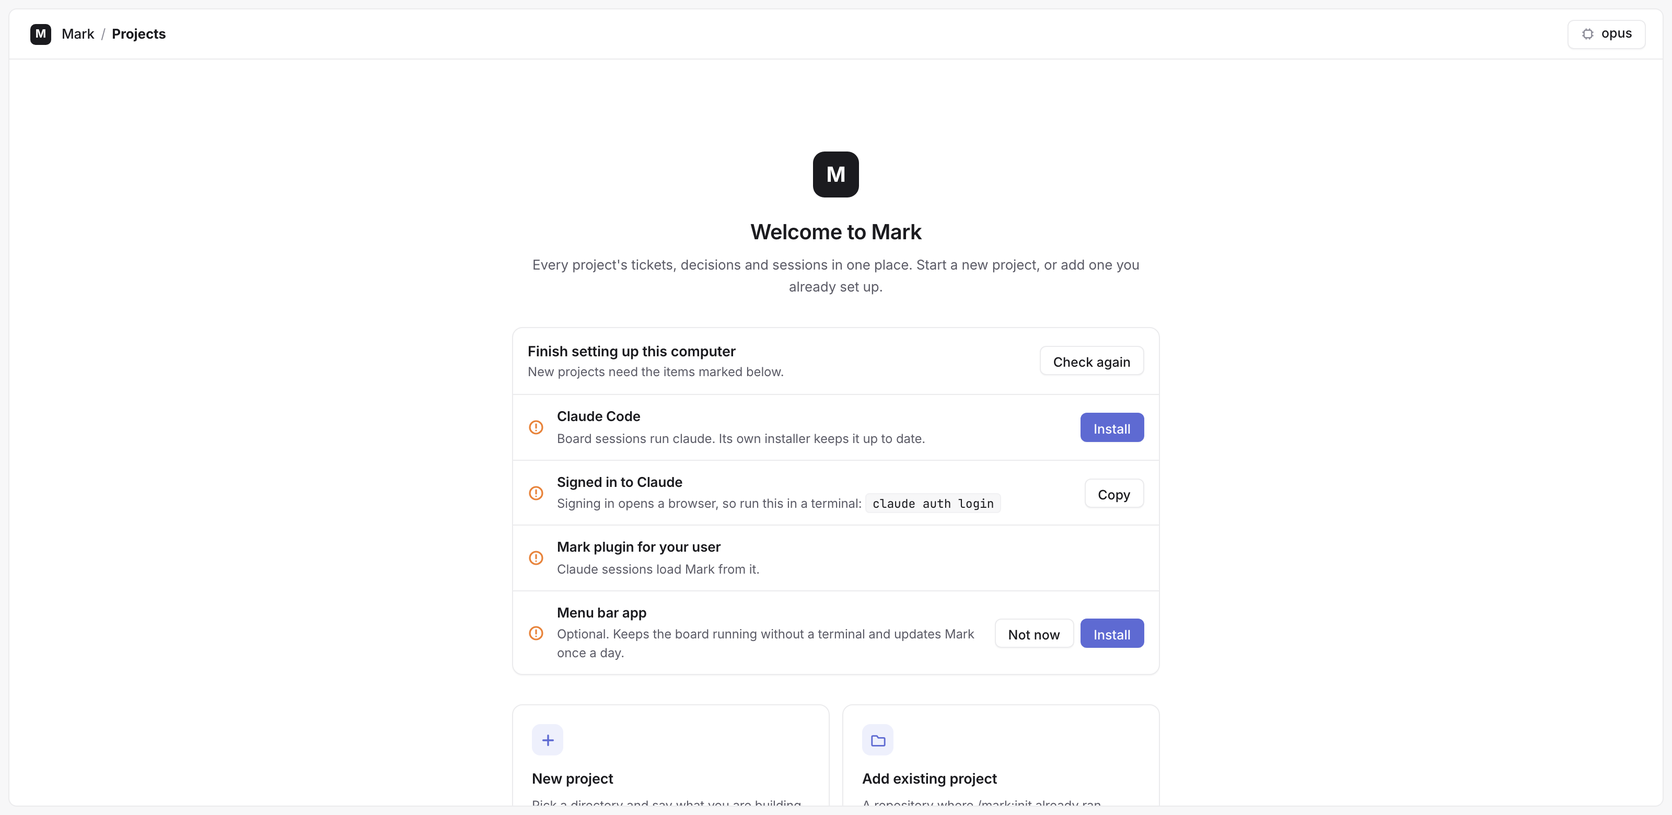
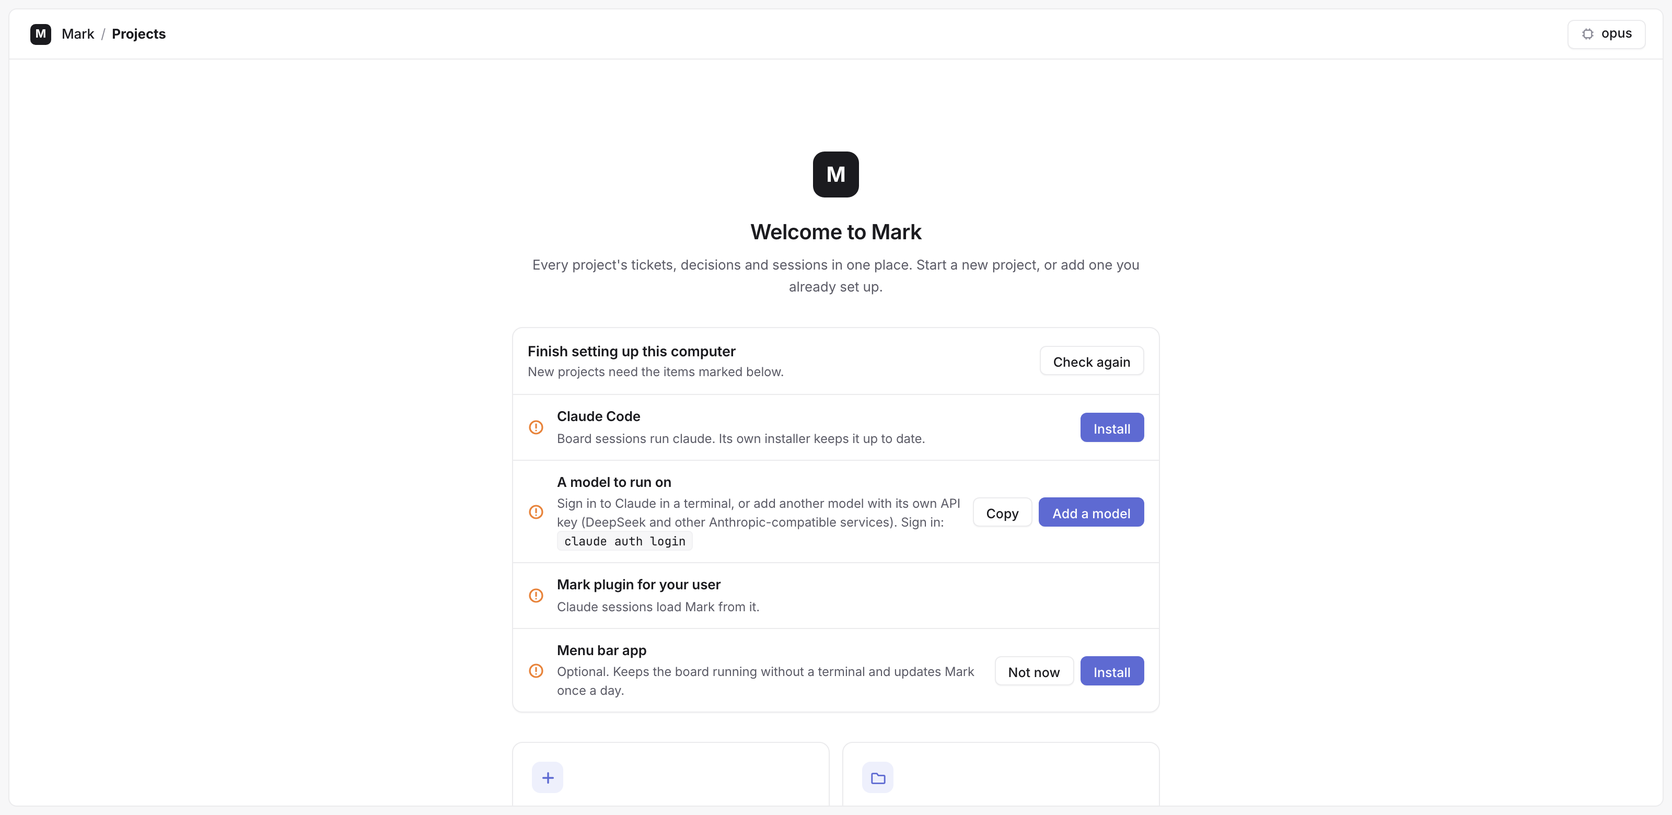
Guided quickstart, a model instead of a Claude login, uninstall.sh (v0.62.0)
- install.sh waits for the menu bar app's board and opens it, then says what
  to do there (finish the setup, New project, Add existing project).
- Setup check "A model to run on": passes when signed in to Claude or when
  the active model profile is a custom endpoint; "Add a model" opens the
  model menu. Signing in to Claude is no longer required.
- uninstall.sh: quits Mark, removes the app, its login item, the launcher
  (only ours) and the plugin; keeps Claude Code, projects and ~/.mark
  unless --purge.
- README: Quickstart as steps (install, finish setup on the board, add a
  project, start work, come back later), other install ways, uninstall;
  screenshots retaken.

diff --git a/plugins/mark/lib/mark/board.html b/plugins/mark/lib/mark/board.html
@@ -502,7 +502,7 @@ a.btn{text-decoration:none;color:inherit;display:inline-flex;align-items:center}
 <script>
 "use strict";
 const I18N={
- en:{dep_python:"Python 3.11 or newer",depH_python:"Mark's hooks run python3. Install it, for example:",dep_git:"git",depH_git:"The Xcode command line tools provide git.",dep_claude:"Claude Code",depH_claude:"Board sessions run claude. Its own installer keeps it up to date.",dep_login:"Signed in to Claude",depH_login:"Signing in opens a browser, so run this in a terminal:",dep_plugin:"Mark plugin for your user",depH_plugin:"Claude sessions load Mark from it.",dep_app:"Menu bar app",depH_app:"Keeps the board running without a terminal and updates Mark once a day.",depT:"Finish setting up this computer",depBlock:"New projects need the items marked below.",depOpt:"Optional. ",depFix:"Install",depRunning:"Installing…",depRecheck:"Check again",depHide:"Not now",depCopy:"Copy",depRun:"Running:",depFail:"Failed (exit {c}):",depDone:"Done:",depNeed:"Finish the setup at the top of the page first.",depAppAsk:"The menu bar app takes over the board: this page reconnects, then use Open in its menu to sign in again. Install it?",copiedCmd:"Command copied","deps.busy":"Another install is running; wait for it to finish.",newProj:"New project",wHint:"Claude runs /mark:init in this directory: it proposes how to set the project up, you confirm or correct it in the chat.",wDirL:"Directory (full path; created if missing)",wTextL:"What are you building, and on what stack?",wCreate:"Start",wSetting:"Setting up",wOpen:"Open the board",wDiscard:"Discard",
+ en:{dep_python:"Python 3.11 or newer",depH_python:"Mark's hooks run python3. Install it, for example:",dep_git:"git",depH_git:"The Xcode command line tools provide git.",dep_claude:"Claude Code",depH_claude:"Board sessions run claude. Its own installer keeps it up to date.",dep_model:"A model to run on",depH_model:"Sign in to Claude in a terminal, or add another model with its own API key (DeepSeek and other Anthropic-compatible services). Sign in:",depAddModel:"Add a model",dep_plugin:"Mark plugin for your user",depH_plugin:"Claude sessions load Mark from it.",dep_app:"Menu bar app",depH_app:"Keeps the board running without a terminal and updates Mark once a day.",depT:"Finish setting up this computer",depBlock:"New projects need the items marked below.",depOpt:"Optional. ",depFix:"Install",depRunning:"Installing…",depRecheck:"Check again",depHide:"Not now",depCopy:"Copy",depRun:"Running:",depFail:"Failed (exit {c}):",depDone:"Done:",depNeed:"Finish the setup at the top of the page first.",depAppAsk:"The menu bar app takes over the board: this page reconnects, then use Open in its menu to sign in again. Install it?",copiedCmd:"Command copied","deps.busy":"Another install is running; wait for it to finish.",newProj:"New project",wHint:"Claude runs /mark:init in this directory: it proposes how to set the project up, you confirm or correct it in the chat.",wDirL:"Directory (full path; created if missing)",wTextL:"What are you building, and on what stack?",wCreate:"Start",wSetting:"Setting up",wOpen:"Open the board",wDiscard:"Discard",
   "home.isMark":"Already a Mark project: add it on the home page instead.","home.noParent":"The parent directory does not exist.","home.notDir":"That path is a file, not a directory.",
   projects:"Projects",allProjects:"All projects",addProj:"Add existing project",add:"Add project",remove:"Remove from list",pRunning:"A session is running",
   addHint:"A repository where Mark is already set up (it has .mark/config.toml). Any directory inside it works too.",aDirL:"Project directory (full path)",hTip:"Running this in a Mark project also adds it here:",
@@ -536,7 +536,7 @@ const I18N={
   keySaved:"Saved; leave empty to keep it",save:"Save",saved:"Model: {m}. New sessions use it.",
   addProfile:"Add a model",profName:"Name (optional, shown in the list)",cancel:"Cancel",edit:"Edit",del:"Delete",delAsk:"Delete the model \"{m}\"?",
   "chat.busy":"Claude is already working on this ticket; wait for its reply.","chat.no-claude":"`claude` was not found, so nobody can reply. Continue in a terminal."},
- "zh-CN":{dep_python:"Python 3.11 或更新版本",depH_python:"Mark 的 hooks 用 python3 运行。安装方式举例：",dep_git:"git",depH_git:"git 由 Xcode 命令行工具提供。",dep_claude:"Claude Code",depH_claude:"看板里的会话要运行 claude。用它的官方安装器安装，之后会自动更新。",dep_login:"已登录 Claude",depH_login:"登录要打开浏览器，请在终端里运行：",dep_plugin:"用户级 Mark 插件",depH_plugin:"Claude 会话从这里加载 Mark。",dep_app:"菜单栏应用",depH_app:"不开终端也能让看板一直运行，并每天更新一次 Mark。",depT:"这台电脑还差几步",depBlock:"新建项目需要先完成标记的几项。",depOpt:"可选。",depFix:"安装",depRunning:"安装中…",depRecheck:"重新检查",depHide:"暂不",depCopy:"复制",depRun:"正在运行：",depFail:"失败（退出码 {c}）：",depDone:"已完成：",depNeed:"请先完成页面顶部的环境配置。",depAppAsk:"菜单栏应用会接管看板：本页会自动重连，之后点它菜单里的 Open 重新登录。现在安装？",copiedCmd:"已复制命令","deps.busy":"另一个安装正在进行，请等它完成。",newProj:"新建项目",wHint:"Claude 会在这个目录里运行 /mark:init：先提出项目的配置方案，你在对话里确认或修改。",wDirL:"目录（完整路径，不存在会自动创建）",wTextL:"你要做什么？用什么技术栈？",wCreate:"开始",wSetting:"配置中",wOpen:"打开看板",wDiscard:"丢弃",
+ "zh-CN":{dep_python:"Python 3.11 或更新版本",depH_python:"Mark 的 hooks 用 python3 运行。安装方式举例：",dep_git:"git",depH_git:"git 由 Xcode 命令行工具提供。",dep_claude:"Claude Code",depH_claude:"看板里的会话要运行 claude。用它的官方安装器安装，之后会自动更新。",dep_model:"可用的模型",depH_model:"在终端里登录 Claude，或添加一个自带 API key 的其他模型（DeepSeek 等兼容 Anthropic 接口的服务）。登录命令：",depAddModel:"添加模型",dep_plugin:"用户级 Mark 插件",depH_plugin:"Claude 会话从这里加载 Mark。",dep_app:"菜单栏应用",depH_app:"不开终端也能让看板一直运行，并每天更新一次 Mark。",depT:"这台电脑还差几步",depBlock:"新建项目需要先完成标记的几项。",depOpt:"可选。",depFix:"安装",depRunning:"安装中…",depRecheck:"重新检查",depHide:"暂不",depCopy:"复制",depRun:"正在运行：",depFail:"失败（退出码 {c}）：",depDone:"已完成：",depNeed:"请先完成页面顶部的环境配置。",depAppAsk:"菜单栏应用会接管看板：本页会自动重连，之后点它菜单里的 Open 重新登录。现在安装？",copiedCmd:"已复制命令","deps.busy":"另一个安装正在进行，请等它完成。",newProj:"新建项目",wHint:"Claude 会在这个目录里运行 /mark:init：先提出项目的配置方案，你在对话里确认或修改。",wDirL:"目录（完整路径，不存在会自动创建）",wTextL:"你要做什么？用什么技术栈？",wCreate:"开始",wSetting:"配置中",wOpen:"打开看板",wDiscard:"丢弃",
   "home.isMark":"这已经是 Mark 项目了，请在首页添加。","home.noParent":"上级目录不存在。","home.notDir":"这个路径是文件，不是目录。",
   projects:"项目",allProjects:"所有项目",addProj:"添加已有项目",add:"添加项目",remove:"从列表移除",pRunning:"有会话在运行",
   addHint:"已经配置过 Mark 的仓库（里面有 .mark/config.toml）。填仓库里的任意子目录也可以。",aDirL:"项目目录（完整路径）",hTip:"在 Mark 项目里运行这个命令，也会把项目加到这里：",
@@ -718,7 +718,7 @@ function renderHome(){
    ${ws.length?`<div class="hsec"><div class="hsech">${tr("wSetting")} <b>${ws.length}</b></div><div class="ptable">${ws.map(wrow).join("")}</div></div>`:""}
    ${ps.length?`<div class="hsec"><div class="ptable"><div class="pth"><span>${tr("colName")}</span><span>${tr("colState")}</span><span>${tr("colProg")}</span><span>${tr("colUpd")}</span><span></span></div>${ps.map(prow).join("")}</div></div>`:""}${foot}</div>`;
   const m=$("#pm");if(m.classList.contains("on"))$(`[data-pm="${CSS.escape(m.dataset.id)}"]`)?.classList.add("on")}
-const DEPCMD={python:"brew install python",login:"claude auth login"};
+const DEPCMD={python:"brew install python",model:"claude auth login"};
 let deps=null,depTimer=0;
 function hideApp(){try{return localStorage.getItem("mark.hideApp")==="1"}catch{return false}}
 function depBlocked(){return !!deps?.checks?.some(c=>c.blocks&&!c.ok)}
@@ -734,7 +734,7 @@ function depsBox(on){
   const st=c=>`<svg class="st${c.ok?" ok":""}" viewBox="0 0 16 16" fill="none" stroke="currentColor" stroke-width="1.6" stroke-linecap="round" aria-hidden="true">${c.ok?'<path d="m4 8.5 2.5 2.5L12 5.5"/>':'<circle cx="8" cy="8" r="6"/><path d="M8 5v3.5M8 11h0"/>'}</svg>`;
   const row=c=>{const cmd=DEPCMD[c.id];
     return `<div class="drow">${st(c)}<div><b>${esc(tr("dep_"+c.id))}</b>${c.detail?`<span class="dv">${esc(c.detail)}</span>`:""}<small>${c.blocks?"":tr("depOpt")}${esc(tr("depH_"+c.id))}${cmd?` <code>${esc(cmd)}</code>`:""}</small></div>
-     <div class="dacts">${cmd?`<button class="btn" data-dcopy="${esc(cmd)}">${tr("depCopy")}</button>`:""}${c.id==="app"?`<button class="btn" data-dhide>${tr("depHide")}</button>`:""}${on&&c.fix?`<button class="btn pri" data-dfix="${esc(c.id)}"${j?.running?" disabled":""}>${tr(j?.running&&j.id===c.id?"depRunning":"depFix")}</button>`:""}</div></div>`};
+     <div class="dacts">${cmd?`<button class="btn" data-dcopy="${esc(cmd)}">${tr("depCopy")}</button>`:""}${c.id==="app"?`<button class="btn" data-dhide>${tr("depHide")}</button>`:""}${c.id==="model"&&on?`<button class="btn pri" data-model>${tr("depAddModel")}</button>`:""}${on&&c.fix?`<button class="btn pri" data-dfix="${esc(c.id)}"${j?.running?" disabled":""}>${tr(j?.running&&j.id===c.id?"depRunning":"depFix")}</button>`:""}</div></div>`};
   const log=showLog?`<div class="dlog${j.running?"":" bad"}">${j.running?tr("depRun"):tr("depFail").replace("{c}",j.code)} ${esc(tr("dep_"+j.id))}<pre>${esc(j.tail||"")}</pre></div>`:"";
   return `<div class="deps" id="deps"><div class="dhead"><div style="flex:1"><b>${tr("depT")}</b>${depBlocked()?`<small>${tr("depBlock")}</small>`:""}</div><button class="btn" data-drecheck>${tr("depRecheck")}</button></div>${rows.map(row).join("")}${log}</div>`}
 async function depFix(id){
@@ -1020,7 +1020,7 @@ function modelProv(){$("#mCustom").hidden=$("#mProv").value!=="custom"}
 async function modelPost(body,b){if(b)b.disabled=true;
   let r;try{r=await (await fetch("/api/model",{method:"POST",headers:{"Content-Type":"application/json"},body:JSON.stringify(body)})).json()}catch{r={ok:false,text:tr("loadFail")}}
   if(b)b.disabled=false;if(!r.ok){$("#mOut").textContent=r.text||"";return}
-  if(body.action!=="delete")mEdit=null;$("#mOut").textContent="";await load();modelList();toast(esc(tr("saved").replace("{m}",data.model.label)))}
+  if(body.action!=="delete")mEdit=null;$("#mOut").textContent="";await load();if(HOME)loadDeps();modelList();toast(esc(tr("saved").replace("{m}",data.model.label)))}
 function modelSave(){modelPost({name:$("#mName").value.trim(),old:mEdit||undefined,provider:$("#mProv").value,model:$("#mModel").value.trim(),
   base_url:$("#mUrl").value.trim(),api_key:$("#mKey").value.trim()},$("[data-msave]"))}
 function newOpen(){$("#nOut").textContent="";$("#nv").classList.add("on");$("#nText").focus()}

diff --git a/tests/test_deps.py b/tests/test_deps.py
@@ -9,7 +9,7 @@ from unittest import mock
 
 from tests._support import fresh_home
 
-from mark import board, deps
+from mark import board, deps, model
 
 
 def done(code=0, out=""):
@@ -31,6 +31,7 @@ GOOD = {"python3 -c": done(out="3.13.1\n"), "xcode-select -p": done(out="/Librar
 
 class ChecksTest(unittest.TestCase):
     def setUp(self):
+        fresh_home(self)
         for p in (mock.patch("mark.runner.find_claude", return_value="/x/claude"),
                   mock.patch("mark.app.plugin_entry", return_value=("mark@marksuits", {"scope": "user", "version": "0.61.0"})),
                   mock.patch("mark.app.app_path", return_value=mock.Mock(is_dir=lambda: True))):
@@ -50,8 +51,21 @@ class ChecksTest(unittest.TestCase):
 
     def test_what_fails(self):
         got = self.by_id({**GOOD, "python3 -c": done(out="3.9.6\n"), "claude auth": done(1)})
-        self.assertEqual((got["python"]["ok"], got["python"]["fix"], got["login"]["ok"], got["login"]["fix"]),
+        self.assertEqual((got["python"]["ok"], got["python"]["fix"], got["model"]["ok"], got["model"]["fix"]),
                          (False, False, False, False))
+
+    def test_a_model_of_its_own_needs_no_sign_in(self):
+        signed_out = {**GOOD, "claude auth": done(1)}
+        self.assertFalse(self.by_id(signed_out)["model"]["ok"])
+        ok, _ = model.save(None, {"name": "DeepSeek", "provider": "custom", "model": "deepseek-chat",
+                                  "base_url": "https://api.deepseek.com/anthropic", "api_key": "k"})
+        self.assertTrue(ok)
+        got = self.by_id(signed_out)["model"]
+        self.assertEqual((got["ok"], got["detail"]), (True, "DeepSeek"))
+
+    def test_signed_in_shows_how(self):
+        got = self.by_id({**GOOD, "claude auth": done(out='{"loggedIn": true, "authMethod": "claude.ai"}')})
+        self.assertEqual((got["model"]["ok"], got["model"]["detail"]), (True, "claude.ai"))
 
     def test_no_command_line_tools_never_runs_the_git_stub(self):
         answers = {**GOOD, "xcode-select -p": done(2)}
@@ -63,7 +77,7 @@ class ChecksTest(unittest.TestCase):
                 mock.patch("mark.app.plugin_entry", return_value=("mark@marksuits", {"scope": "project", "version": "1"})):
             got = self.by_id(GOOD)
         self.assertEqual([(c["id"], c["fix"]) for c in got.values() if not c["ok"]],
-                         [("claude", True), ("login", False), ("plugin", False)])  # the plugin waits for claude
+                         [("claude", True), ("model", False), ("plugin", False)])  # the plugin waits for claude
 
 
 class FixTest(unittest.TestCase):
@@ -76,9 +90,9 @@ class FixTest(unittest.TestCase):
         with mock.patch("mark.runner.find_claude", return_value="/a b/claude"):
             self.assertEqual(deps.fix_command("claude"), ["bash", "-c", deps.INSTALL_CLAUDE])
             self.assertIn("'/a b/claude' plugin install mark@marksuits --scope user", deps.fix_command("plugin")[2])
-        for bad in ("login", "python", "rm -rf /", None, ["claude"]):
+        for bad in ("model", "python", "rm -rf /", None, ["claude"]):
             self.assertIsNone(deps.fix_command(bad), bad)
-        self.assertEqual(deps.start("login"), (False, "bad request"))
+        self.assertEqual(deps.start("model"), (False, "bad request"))
 
     def test_one_at_a_time_and_output_kept(self):
         cmd = [sys.executable, "-c", "import time; print('hello'); time.sleep(0.5)"]

diff --git a/plugins/mark/lib/mark/deps.py b/plugins/mark/lib/mark/deps.py
@@ -3,10 +3,12 @@
 The home page lists the checks that fail. A fix runs one of the commands in `fix_command`: the
 page sends only a check id, never a command or an argument. One fix runs at a time, in the
 background; its output goes to MARK_HOME/deps.log. Signing in to Claude needs a browser and a
-terminal, so the page shows that command instead of running it.
+terminal, so the page shows that command instead of running it; a model of its own (a custom
+endpoint picked in the board's model menu) needs no sign-in.
 """
 from __future__ import annotations
 
+import json
 import os
 import shlex
 import subprocess
@@ -14,11 +16,11 @@ import sys
 import threading
 from pathlib import Path
 
-from . import app, home, runner
+from . import app, home, model, runner
 
 INSTALL_CLAUDE = "curl -fsSL https://claude.ai/install.sh | bash"
 MARKETPLACE = "tuoyukun/MarkSuits"
-BLOCKING = ("python", "git", "claude", "login", "plugin")  # a new project needs all of these
+BLOCKING = ("python", "git", "claude", "model", "plugin")  # a new project needs all of these
 
 _lock = threading.Lock()
 _job: dict = {}
@@ -60,8 +62,17 @@ def checks(run=_run, darwin: bool = sys.platform == "darwin") -> list[dict]:
     add("git", bool(git), git.removeprefix("git version "), fix=darwin)
     claude = runner.find_claude()
     add("claude", bool(claude), _first_line(run([claude, "--version"])).split(" ")[0] if claude else "", fix=True)
-    res = run([claude, "auth", "status"]) if claude else None
-    add("login", bool(res and res.returncode == 0))
+    s = model.store(None)
+    active = next(p for p in s["profiles"] if p["name"] == s["active"])
+    if active.get("provider") == "custom":
+        add("model", True, active["name"])
+    else:  # the CLI's own login: claude.ai, an API key, a cloud provider
+        res = run([claude, "auth", "status"]) if claude else None
+        try:
+            method = str(json.loads(res.stdout).get("authMethod") or "") if res and res.returncode == 0 else ""
+        except (ValueError, AttributeError):
+            method = ""
+        add("model", bool(res and res.returncode == 0), method)
     found = app.plugin_entry()
     user = bool(found and found[1].get("scope") == "user")
     add("plugin", user, str(found[1].get("version") or "") if user else "", fix=bool(claude))

diff --git a/tests/test_app.py b/tests/test_app.py
@@ -127,8 +127,13 @@ class CliTest(unittest.TestCase):
         for args in (["app"], ["app", "build"], ["app", "install", "--bad"]):
             self.assertEqual(cli.main(args, out=io.StringIO(), err=io.StringIO()), 2, args)
 
-    def test_install_sh_parses(self):
-        self.assertEqual(subprocess.run(["bash", "-n", str(ROOT / "install.sh")]).returncode, 0)
+    def test_scripts_parse(self):
+        for name in ("install.sh", "uninstall.sh"):
+            self.assertEqual(subprocess.run(["bash", "-n", str(ROOT / name)]).returncode, 0, name)
+
+    def test_uninstall_knows_the_launcher(self):
+        # uninstall.sh deletes ~/.local/bin/mark only when it is ours
+        self.assertIn("Mark plugin", (ROOT / "plugins/mark/macos/launcher.py").read_text())
 
 
 if __name__ == "__main__":

diff --git a/README.md b/README.md
@@ -22,29 +22,56 @@ flowchart LR
 
 ## Quickstart
 
-One line installs Claude Code (if missing), the Mark plugin for your user and, on macOS, the
-menu bar app; run it again to repair or update:
+**1. Install.** One line installs Claude Code (if missing), the Mark plugin for your user and, on
+macOS, the menu bar app. When it finishes, the board opens in your browser.
 
 ```bash
 curl -fsSL https://raw.githubusercontent.com/tuoyukun/MarkSuits/main/install.sh | bash
 ```
 
-Or add the plugin yourself, for example for a whole team (`.claude/settings.json`):
+**2. Finish the setup on the board.** If this computer still lacks something, the panel at the
+top of the home page says what, and installs what it can with one click. Board sessions need a
+model to run on: sign in to Claude (`claude auth login` in a terminal), or click **Add a model**
+to use another one with its own API key (DeepSeek or any Anthropic-compatible service).
+
+![The home page on a new computer: what Mark still needs, with one-click installs](docs/images/board-home-en.png)
+
+**3. Add a project.**
+
+- **New project**: pick a directory (a new one, or an existing repository without Mark) and say
+  what you are building. Claude runs `/mark:init` there with you in a chat: it proposes the
+  setup (stack, modules, tests), you confirm or correct it, and the project joins the board.
+- **Add existing project**: a repository that already uses Mark; paste its path.
+
+**4. Start work.** Open the project and click **+ New ticket**. Talk the requirement through with
+Claude in the ticket's chat; when the requirement, the design and the plan are ready, approve
+them on the board. The rest runs on its own up to the merge. Prefer the terminal? In Claude
+Code inside the repository, `/mark:feature <what>` does the same.
+
+**5. Come back later.** Click the Mark icon in the menu bar, then **Open**; or run `mark board`.
+
+To try Mark without touching your own code, run an example in a sandbox:
+[examples/README.md](examples/README.md).
+
+### Other ways to install
+
+For a whole team, install the plugin at project scope (it goes into the committed
+`.claude/settings.json`), then run `/mark:init` in Claude Code inside the repository:
 
 ```bash
 claude plugin marketplace add tuoyukun/MarkSuits --scope project
 claude plugin install mark@marksuits --scope project
 ```
 
-Then, in Claude Code inside your repository:
+### Uninstall
 
-```text
-/mark:init                                        # read the repo, propose a setup, write it on your OK
-/mark:feature Add a "Clear completed" button      # requirement → design → plan → code → test → merge
+```bash
+curl -fsSL https://raw.githubusercontent.com/tuoyukun/MarkSuits/main/uninstall.sh | bash
 ```
 
-To try it without touching your own code, run an example in a sandbox:
-[examples/README.md](examples/README.md).
+It quits Mark and removes the menu bar app, its login item, the `mark` command and the plugin.
+It keeps Claude Code, your projects (code and `.mark/`) and `~/.mark` (the project list, model
+profiles with their API keys, board logs); add `-s -- --purge` after `bash` to remove `~/.mark` too.
 
 ## Why Mark
 
@@ -121,11 +148,7 @@ board read-only.
 One board serves all your projects: `/mark:board` in a project opens its page and adds it to the
 home page (`/`), which lists every project and what waits on you there. **+ New project** on the
 home page sets up a new one: give a directory and say what you are building, and Claude runs
-`/mark:init` there, proposing the setup for you to confirm in the chat. When this computer lacks
-something Mark needs (Claude Code, signing in, the plugin, git, Python 3.11+), the home page says
-what, and installs what it can with one click.
-
-![The home page on a new computer: what Mark still needs, with one-click installs](docs/images/board-home-en.png)
+`/mark:init` there, proposing the setup for you to confirm in the chat.
 
 You can also open a ticket on the board (**+ New ticket**) and talk it through with Claude in the
 ticket's **Discussion** tab until the requirement (or bug report) is agreed. Each message runs one

diff --git a/docs/architecture.md b/docs/architecture.md
@@ -730,7 +730,9 @@ covers init's checks and the existing-project cases; `tests/test_upgrade.py` cov
   Users only receive an update when the version string changes.
 - One-line install (v0.60): `install.sh` at the repo root checks git and Python 3.11+, installs
   Claude Code with its own installer if missing, adds the marketplace and the user-scope plugin,
-  then on macOS runs `<plugin>/bin/mark app install`. Every step is safe to rerun.
+  then on macOS runs `<plugin>/bin/mark app install`, waits for the app's board and opens it
+  (`mark board`). Every step is safe to rerun. `uninstall.sh` quits the app and removes it, its
+  LaunchAgent, the launcher (only if it is ours) and the plugin; `~/.mark` only with `--purge`.
 - Menu bar app (v0.60, `lib/mark/app.py`): the plugin is the only copy of Mark's code.
   `mark app install` writes `~/.local/bin/mark` (`macos/launcher.py`, on the installing Python:
   it runs the `installPath` of the user-scope plugin from `installed_plugins.json`) and compiles
@@ -746,8 +748,8 @@ covers init's checks and the existing-project cases; `tests/test_upgrade.py` cov
   formula of v0.59 is gone: two installs of the same code drifted apart.
 - Setup checks (v0.61, `lib/mark/deps.py`): the home page asks `/api/deps` for what this machine
   lacks: python3 >= 3.11 (hooks run it), git (on macOS only after `xcode-select -p` succeeds:
-  without the command line tools `/usr/bin/git` is a stub that opens a dialog), claude, signed in
-  (`claude auth status` exits 0), the user-scope plugin, and on macOS the menu bar app (optional).
+  without the command line tools `/usr/bin/git` is a stub that opens a dialog), claude, a model (the active
+  profile is a custom endpoint, or `claude auth status` exits 0), the user-scope plugin, and on macOS the menu bar app (optional).
   `POST /api/deps/fix {id}` (cookie, same origin) runs that check's fixed command in the
   background, one at a time, output in `MARK_HOME/deps.log`: Claude's own installer, the
   marketplace + plugin install, `xcode-select --install`, `mark app install`. Python and sign-in
